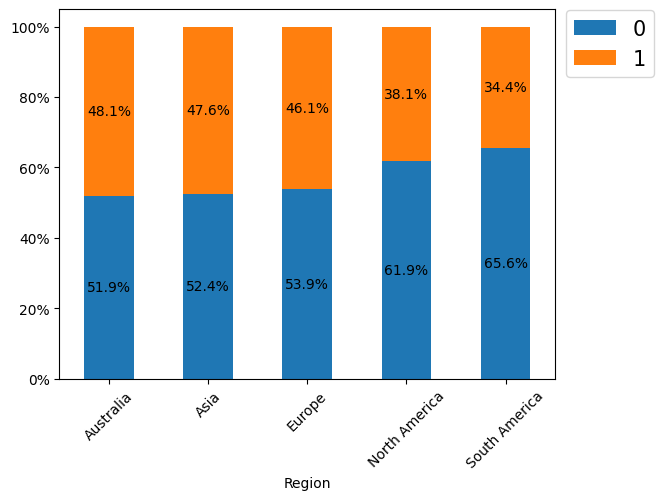
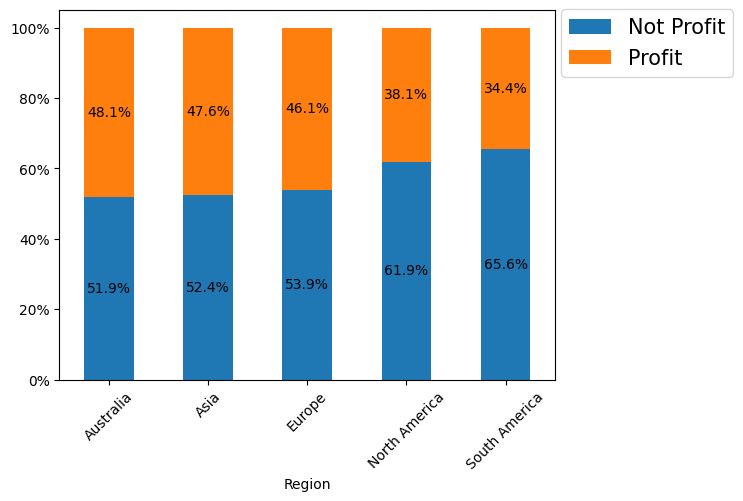
main

diff --git a/SQL/03_Detailed_information_python/05_startups_profitability_by_industry.py b/SQL/03_Detailed_information_python/05_startups_profitability_by_industry.py
@@ -1,0 +1,22 @@
+profitability_by_industry_perc = profitability_by_industry.divide(np.sum(profitability_by_industry, axis = 1),
+                                                                         axis = 0) * 100
+profitability_by_industry_perc = profitability_by_industry_perc.round(1)
+
+profitability_by_industry_perc = profitability_by_industry_perc.sort_values(by = "Profit", ascending = True)
+
+g = profitability_by_industry_perc.plot(kind = 'bar', stacked = True)
+ax = plt.gca()
+y_labels = ['{:,.0f}'.format(l) + "%" for l in g.get_yticks()]
+g.set_yticklabels(y_labels)
+for p in g.patches:
+    width, height = p.get_width(), p.get_height()
+    x, y = p.get_xy()
+    
+    ax.text(x + width/2, y + height/2, '{:,.1f}'.format(height) + '%',
+                horizontalalignment='center', 
+                verticalalignment='center')
+
+plt.xticks(rotation = 45)
+ax.legend(loc = 1, bbox_to_anchor=(1.38, 1.03), frameon=True, fontsize = 15)
+plt.savefig("05_startups_profitability_by_industry.png", bbox_inches='tight')
+plt.show()
